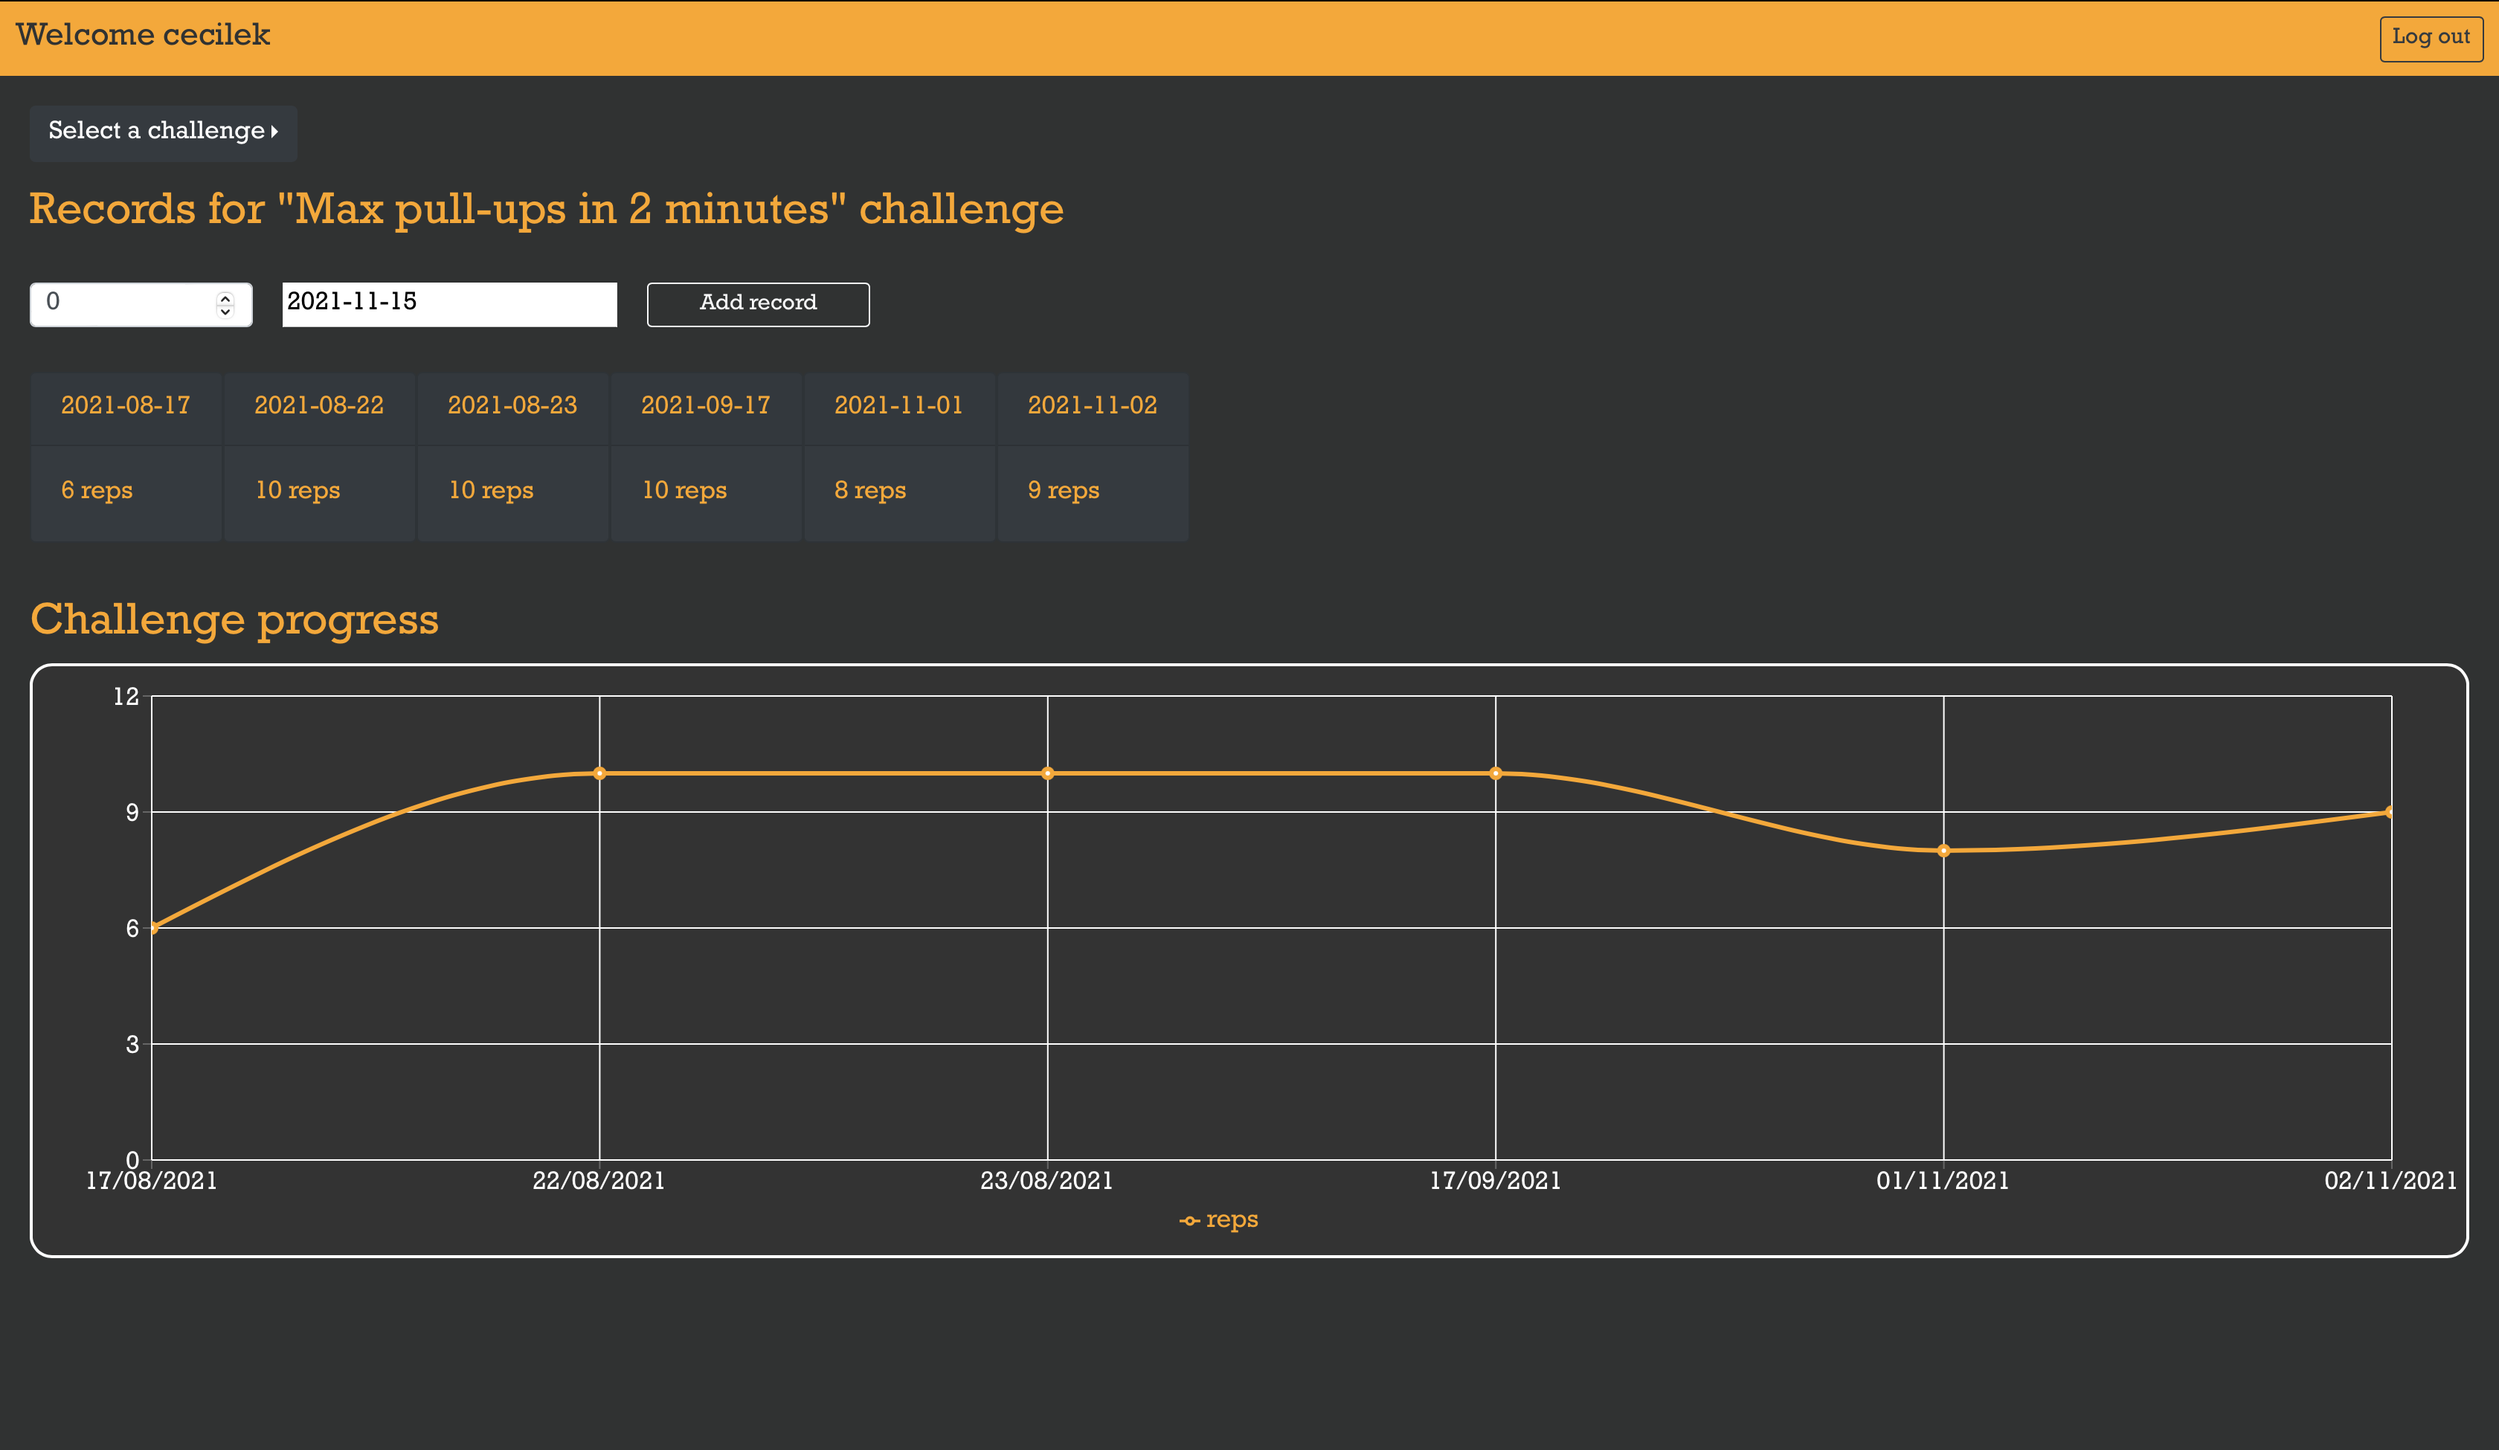
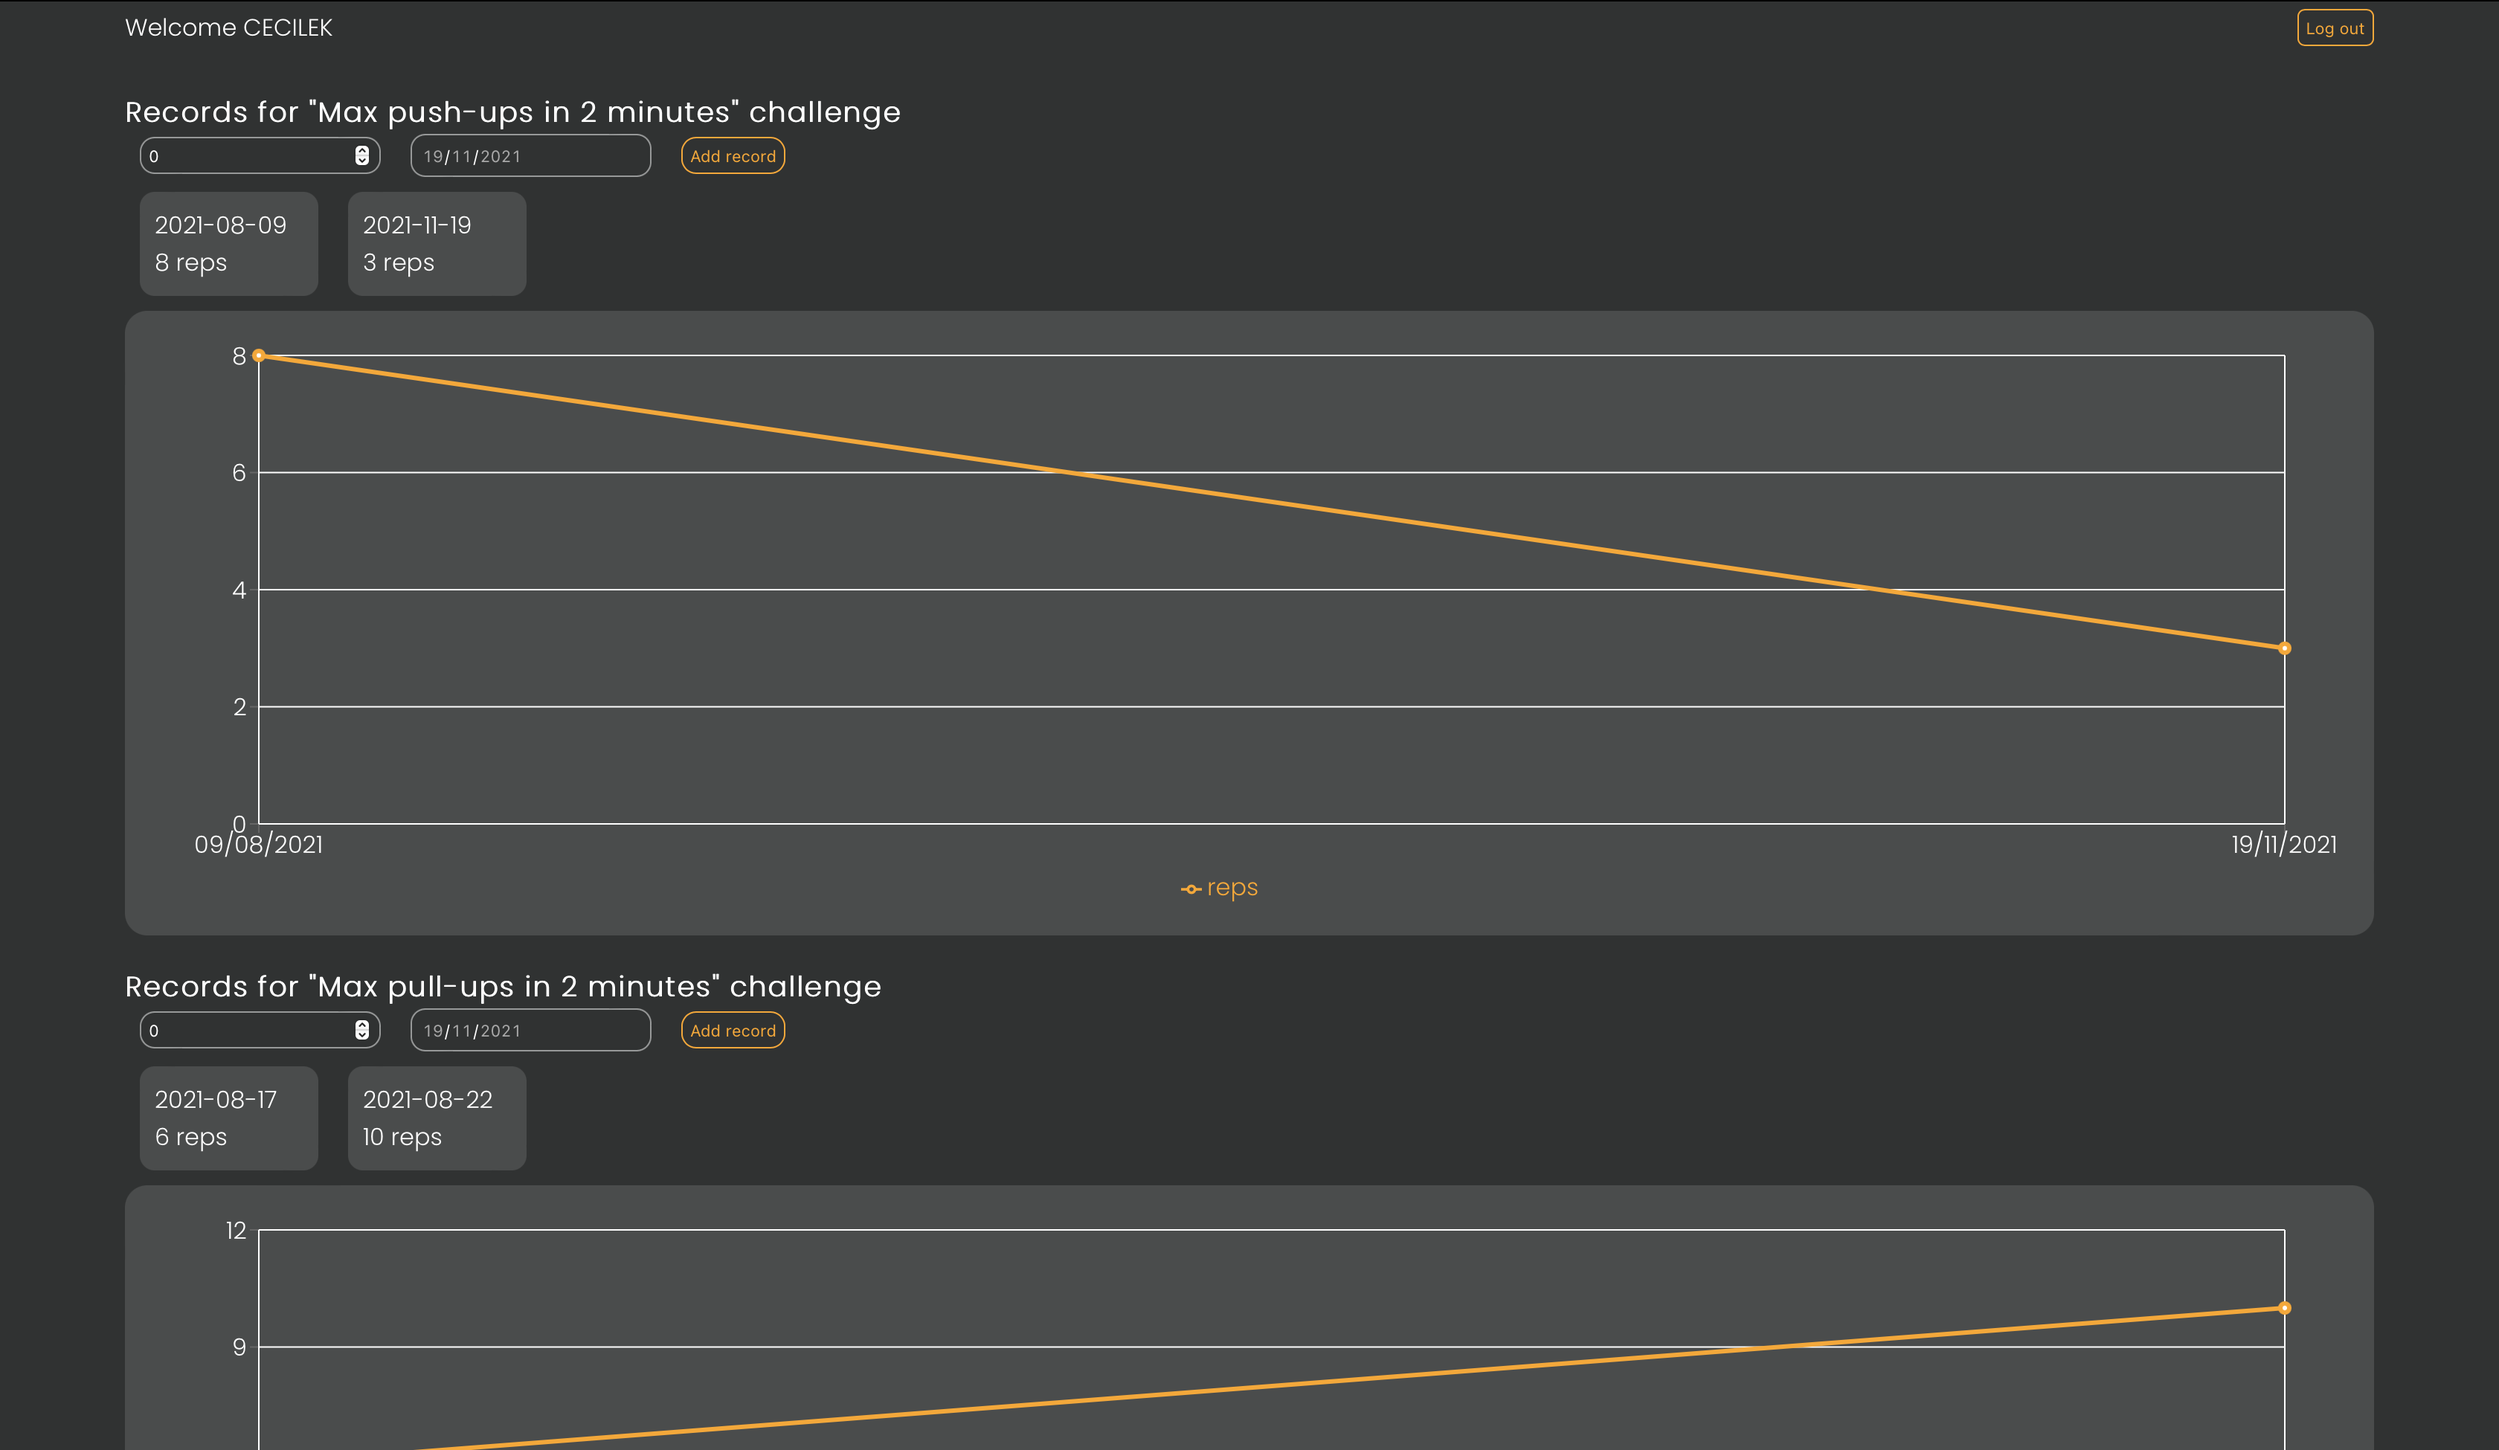
---Version 2.0.1--- - updated projects' images - updated info in data.json - slightly styling update

diff --git a/public/index.html b/public/index.html
@@ -10,6 +10,9 @@
       content="My portfolio webapp"
     />
     <link rel="manifest" href="%PUBLIC_URL%/manifest.json" />
+    <link rel="preconnect" href="https://fonts.googleapis.com">
+    <link rel="preconnect" href="https://fonts.gstatic.com" crossorigin>
+    <link href="https://fonts.googleapis.com/css2?family=Poppins:wght@300&display=swap" rel="stylesheet">
     <title>THIS IS ME</title>
   </head>
   <body>

diff --git a/src/App.css b/src/App.css
@@ -3,7 +3,7 @@ body {
 }
 
 .App {
-    font-family: Rockwell, serif;
+    font-family: Poppins, sans-serif;
     margin: 0;
     padding: 0;
     display: grid;
